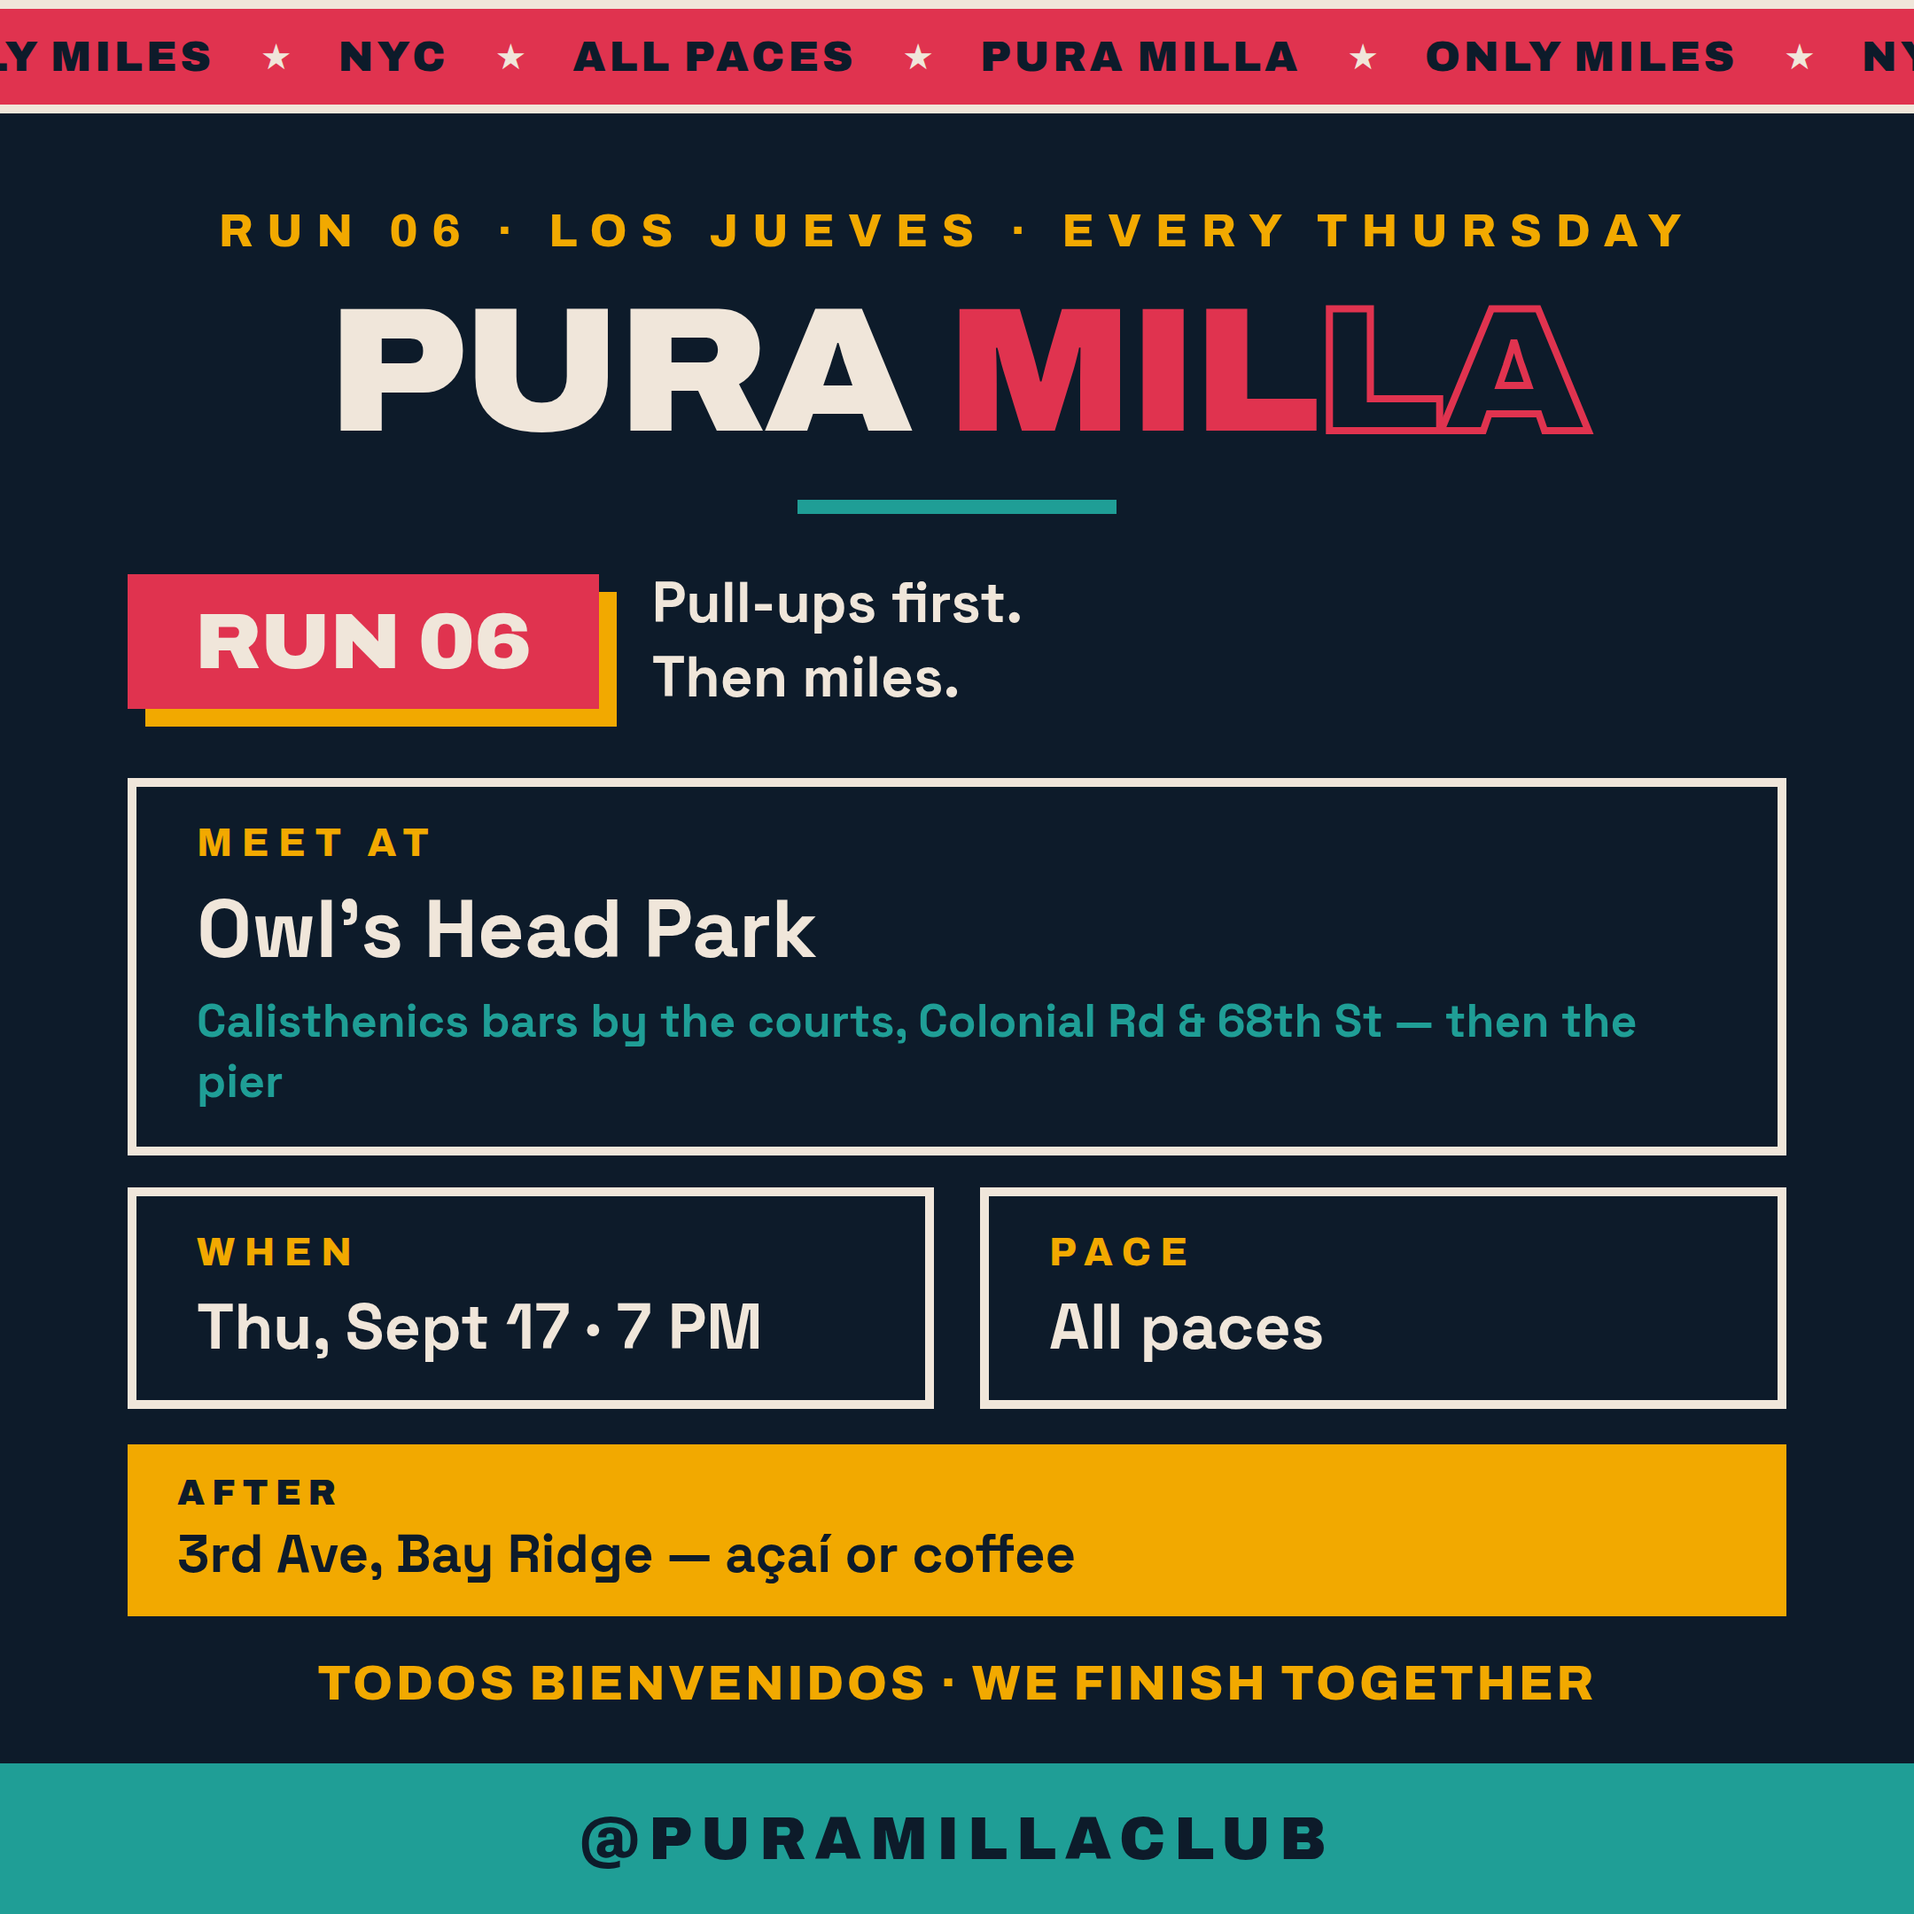
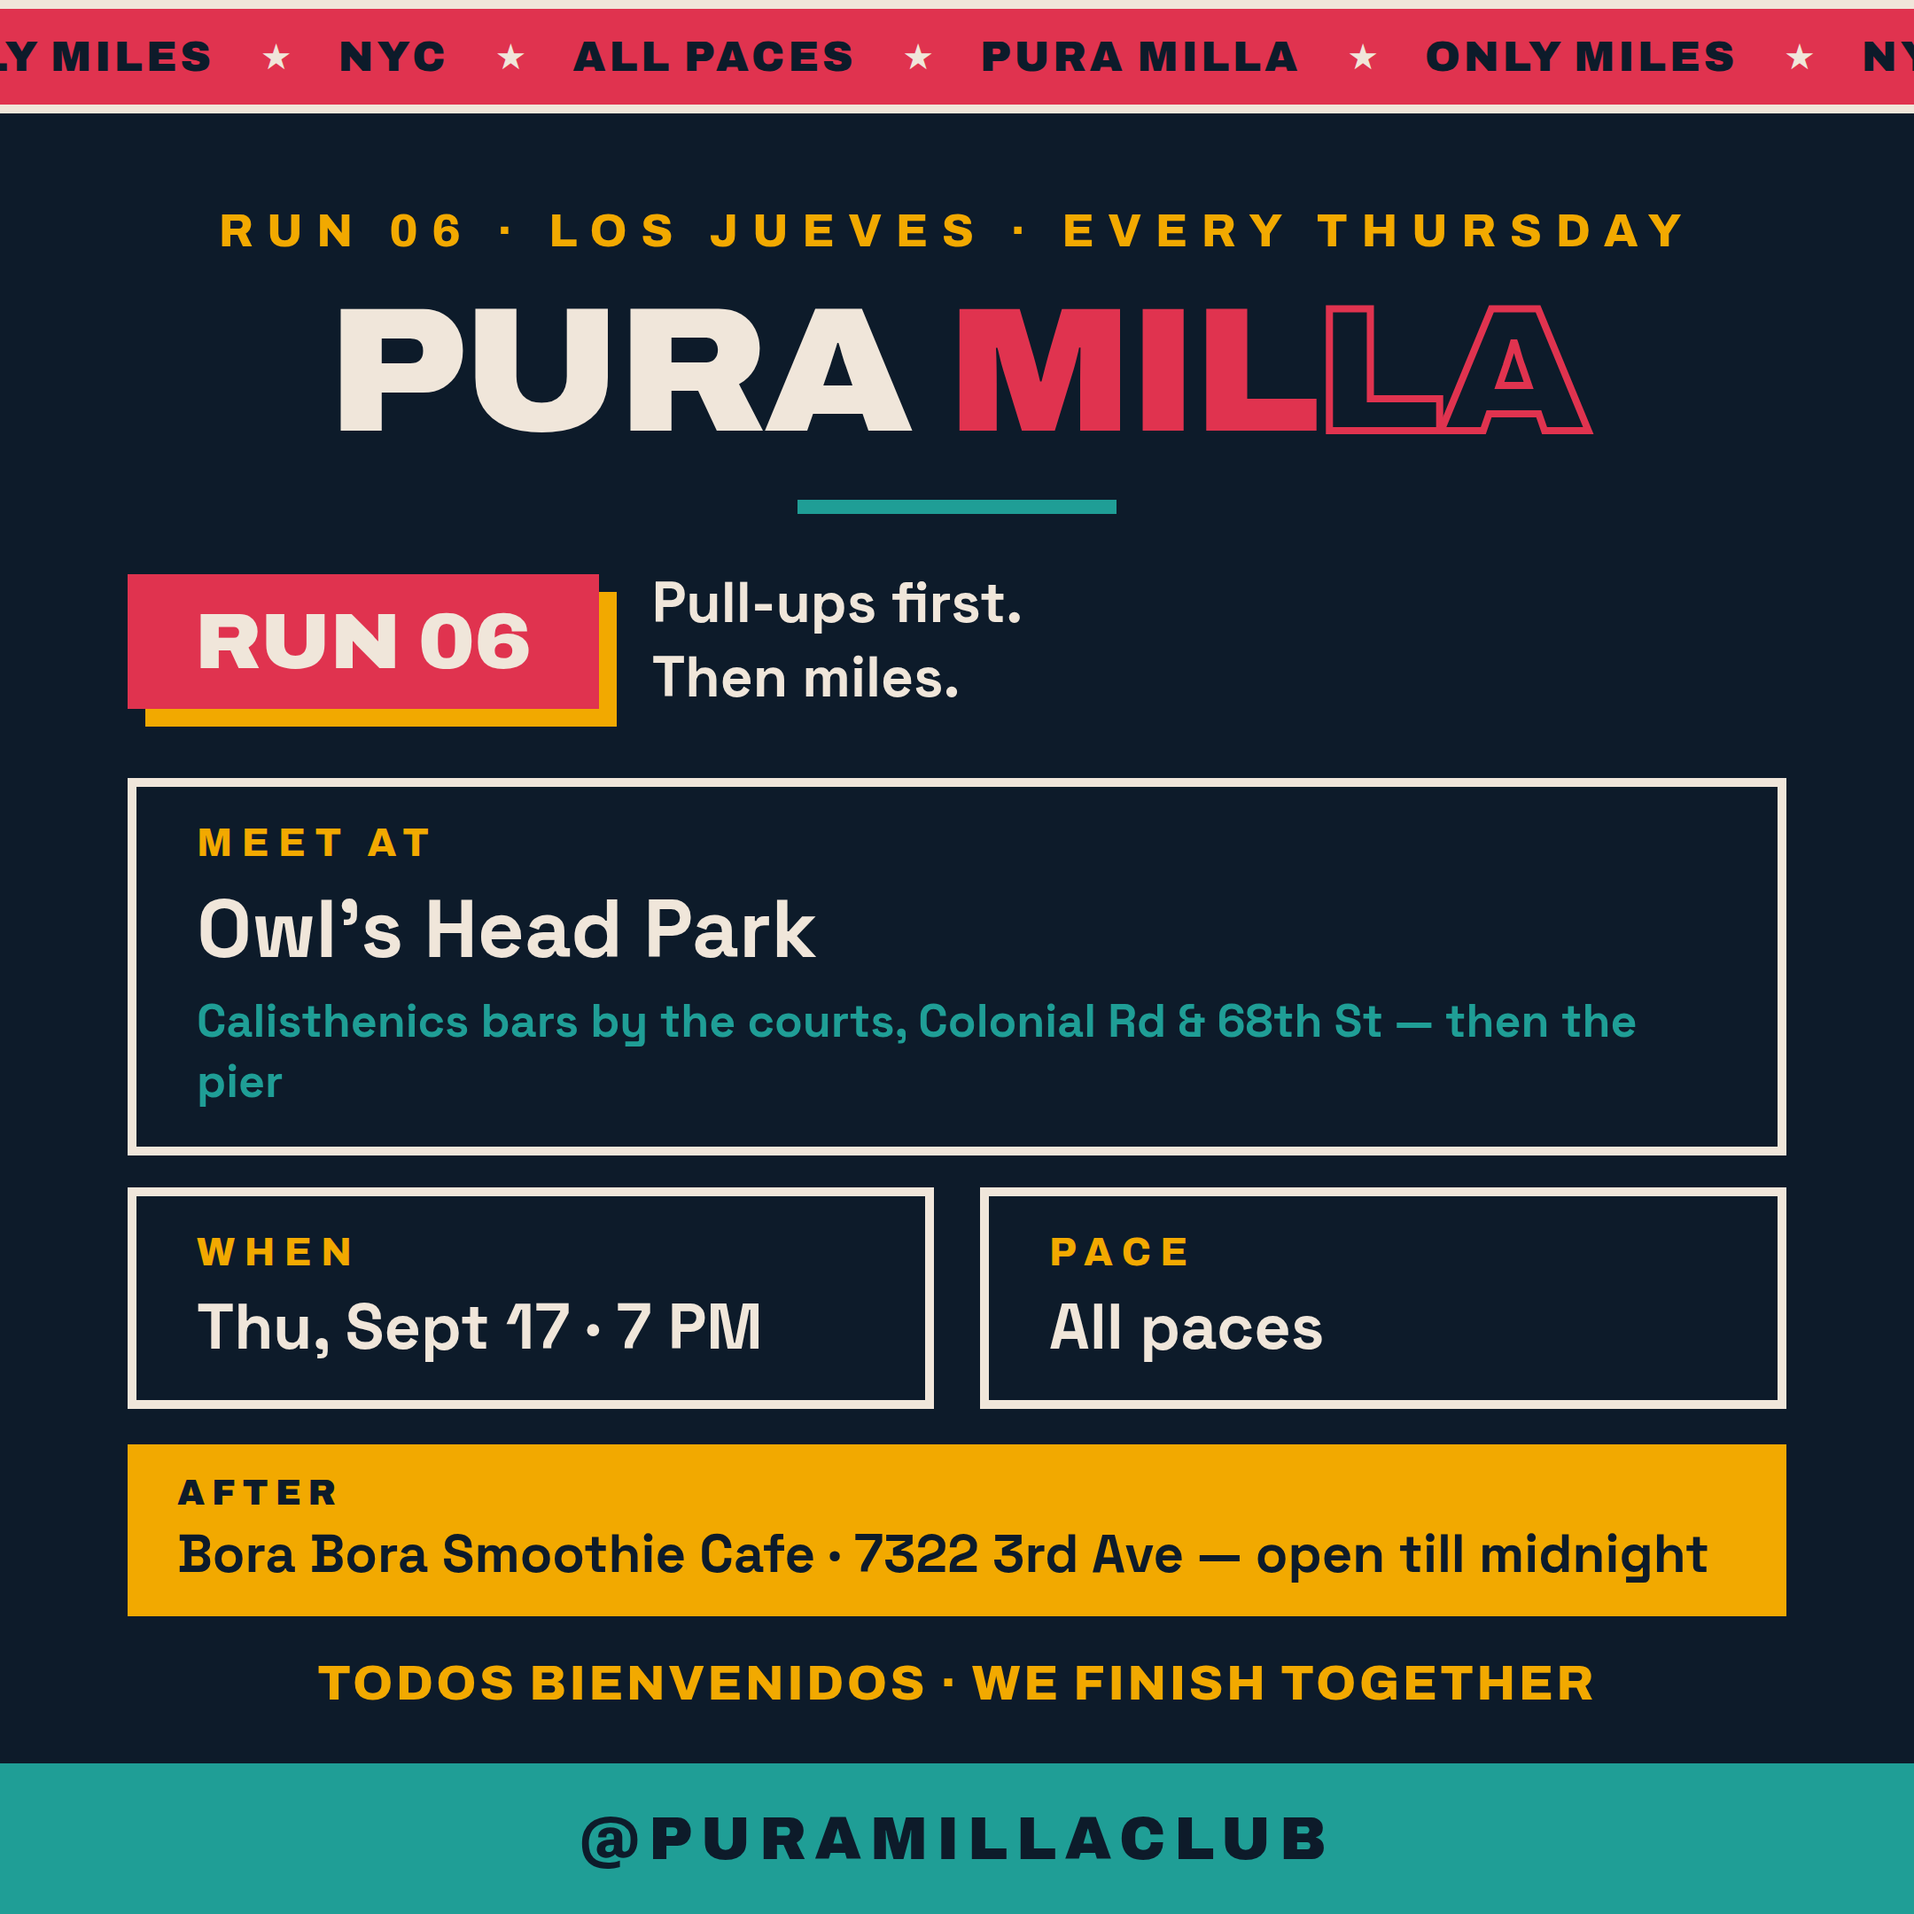
Name the Los Jueves post-run spot: Bora Bora Smoothie Cafe
Claude-Session: https://claude.ai/code/session_011QqYUh6PWa4vM9HAjx3P8r

Changed region(s): [[0.0931, 0.8065, 0.6204, 0.8375], [0.6514, 0.8065, 0.8995, 0.8375]]

diff --git a/index.html b/index.html
@@ -555,10 +555,10 @@
     {n:'03',d:'2026-09-09',t:'7:00 PM',place:'Sunset Park',short:'Sunset Park, Brooklyn',meet:'Sunset Park — 41st St & 5th Ave entrance, Brooklyn',route:'Laps around the park — hop in on any lap',after:'Tacos at El Bronco, 37th & 5th — bring cash'},
     {n:'04',d:'2026-09-13',t:'9:00 AM',place:'Prospect Park',short:'Prospect Park loop',meet:'Grand Army Plaza — under the arch',route:'The 3.35-mile loop, car-free. Cut it short any time',after:'Bagels on 7th Ave'},
     {n:'05',d:'2026-09-15',t:'7:00 PM',place:'The Bronx',short:'Macombs Dam Park track, the Bronx',meet:'Macombs Dam Park track — 161st St & Jerome Ave, next to Yankee Stadium',route:'Laps on the track — hop in on any lap',after:'161st St'},
-    {n:'06',d:'2026-09-17',t:'7:00 PM',place:'Los Jueves',short:"Owl's Head Park — Los Jueves",meet:"Owl's Head Park — calisthenics bars by the basketball courts, Colonial Rd & 68th St",route:'Push-ups, pull-ups, core — then the pier and Shore Road, out and back',after:'3rd Ave, Bay Ridge'},
+    {n:'06',d:'2026-09-17',t:'7:00 PM',place:'Los Jueves',short:"Owl's Head Park — Los Jueves",meet:"Owl's Head Park — calisthenics bars by the basketball courts, Colonial Rd & 68th St",route:'Push-ups, pull-ups, core — then the pier and Shore Road, out and back',after:'Bora Bora Smoothie Cafe, 7322 3rd Ave — açaí, open till midnight'},
     {n:'07',d:'2026-09-20',t:'9:00 AM',place:'Brooklyn Bridge',short:'Brooklyn Bridge',meet:'Brooklyn Bridge Park, Pier 1 — Old Fulton St',route:'Over the bridge and back',after:'Coffee in Dumbo'},
     {n:'08',d:'2026-09-22',t:'7:00 PM',place:'The Bronx',short:'Macombs Dam Park track, the Bronx',meet:'Macombs Dam Park track — 161st St & Jerome Ave, next to Yankee Stadium',route:'Laps on the track — hop in on any lap',after:'161st St'},
-    {n:'09',d:'2026-09-24',t:'7:00 PM',place:'Los Jueves',short:"Owl's Head Park — Los Jueves",meet:"Owl's Head Park — calisthenics bars by the basketball courts, Colonial Rd & 68th St",route:'Push-ups, pull-ups, core — then the pier and Shore Road, out and back',after:'3rd Ave, Bay Ridge'},
+    {n:'09',d:'2026-09-24',t:'7:00 PM',place:'Los Jueves',short:"Owl's Head Park — Los Jueves",meet:"Owl's Head Park — calisthenics bars by the basketball courts, Colonial Rd & 68th St",route:'Push-ups, pull-ups, core — then the pier and Shore Road, out and back',after:'Bora Bora Smoothie Cafe, 7322 3rd Ave — açaí, open till midnight'},
     {n:'10',d:'2026-09-27',t:'9:00 AM',place:'Williamsburg Bridge',short:'Williamsburg Bridge',meet:'Domino Park — Kent Ave & S 3rd St',route:'Over the bridge and back',after:'Williamsburg'},
     {n:'11',d:'2026-09-29',t:'7:00 PM',place:'The Bronx',short:'Macombs Dam Park track, the Bronx',meet:'Macombs Dam Park track — 161st St & Jerome Ave, next to Yankee Stadium',route:'Laps on the track — hop in on any lap',after:'161st St'},
     {n:'12',d:'2026-10-04',t:'9:00 AM',place:"Randall's Island",short:"Randall's Island",meet:'Details soon',route:'Three boroughs, one island',after:'TBA'},

diff --git a/posters/poster-run06.html b/posters/poster-run06.html
@@ -42,7 +42,7 @@ h1 .o{color:transparent;-webkit-text-stroke:4px var(--coral)}
     <div class="block"><div class="lbl">When</div><div class="big xs">Thu, Sept 17 · 7 PM</div></div>
     <div class="block"><div class="lbl">Pace</div><div class="big xs">All paces</div></div>
   </div>
-  <div class="taco"><div class="tl">After</div><div class="tb">3rd Ave, Bay Ridge — açaí or coffee</div></div>
+  <div class="taco"><div class="tl">After</div><div class="tb">Bora Bora Smoothie Cafe · 7322 3rd Ave — open till midnight</div></div>
   <div class="closing">Todos Bienvenidos · We Finish Together</div>
 </div>
 <div class="foot"><span>@puramillaclub</span></div>

diff --git a/posters/poster-run09.html b/posters/poster-run09.html
@@ -42,7 +42,7 @@ h1 .o{color:transparent;-webkit-text-stroke:4px var(--coral)}
     <div class="block"><div class="lbl">When</div><div class="big xs">Thu, Sept 24 · 7 PM</div></div>
     <div class="block"><div class="lbl">Pace</div><div class="big xs">All paces</div></div>
   </div>
-  <div class="taco"><div class="tl">After</div><div class="tb">3rd Ave, Bay Ridge — açaí or coffee</div></div>
+  <div class="taco"><div class="tl">After</div><div class="tb">Bora Bora Smoothie Cafe · 7322 3rd Ave — open till midnight</div></div>
   <div class="closing">Todos Bienvenidos · We Finish Together</div>
 </div>
 <div class="foot"><span>@puramillaclub</span></div>
